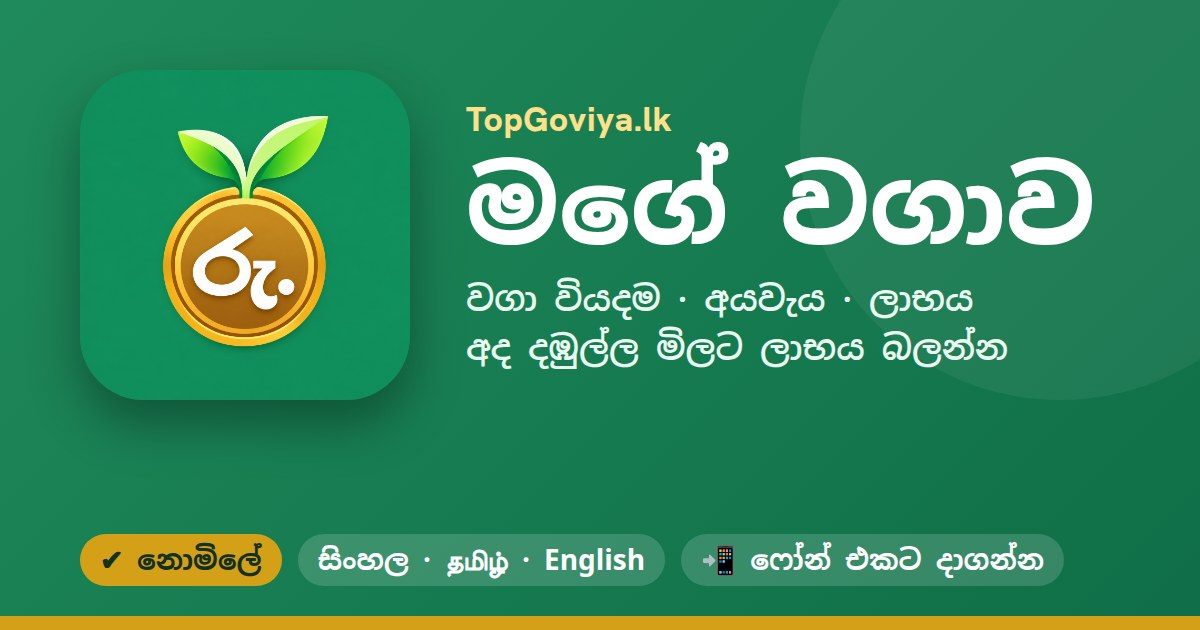
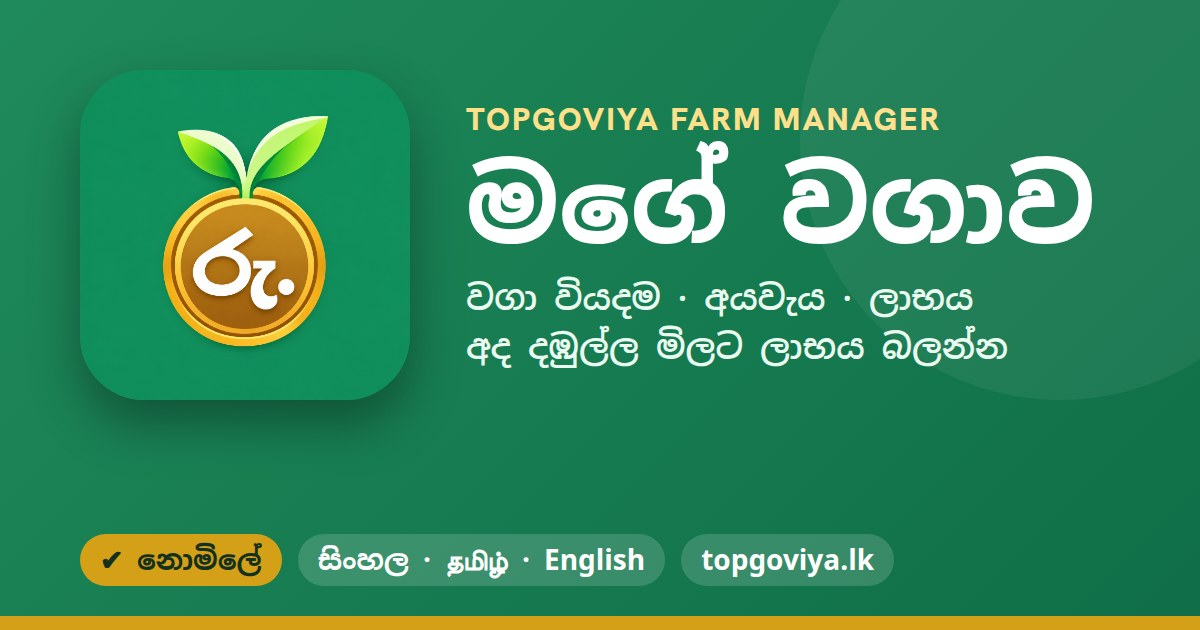
Add files via upload

diff --git a/mage-wagawa.html b/mage-wagawa.html
@@ -4,16 +4,16 @@
 <meta charset="UTF-8">
 <meta name="viewport" content="width=device-width, initial-scale=1">
 <meta name="robots" content="noindex">
-<title>🌾 මගේ වගාව — වගා වියදම හා ලාභය | TopGoviya.lk</title>
+<title>🌾 මගේ වගාව — TopGoviya Farm Manager | වගා වියදම, අයවැය හා ලාභය</title>
 <meta name="description" content="ඔබේ වගාවේ වියදම්, අස්වැන්න හා ලාභය සටහන් කරන්න. අද දඹුල්ල මිලට විකුණුවොත් ලාභය බලන්න. නොමිලේ.">
 <meta property="og:type" content="website">
 <meta property="og:site_name" content="TopGoviya.lk">
-<meta property="og:title" content="🌾 මගේ වගාව — වගා වියදම, අයවැය හා ලාභය | TopGoviya.lk">
+<meta property="og:title" content="🌾 මගේ වගාව — TopGoviya Farm Manager">
 <meta property="og:description" content="වගාවේ වියදම්, අස්වැන්න හා ලාභය සටහන් කරන්න. අද දඹුල්ල මිලට ලාභය බලන්න. නොමිලේ · සිංහල · தமிழ் · English">
 <meta property="og:url" content="https://topgoviya.lk/mage-wagawa.html">
 <meta property="og:image" content="https://topgoviya.lk/mw-og.jpg">
 <meta property="og:image:width" content="1200"><meta property="og:image:height" content="630">
-<meta property="og:image:alt" content="මගේ වගාව — TopGoviya.lk">
+<meta property="og:image:alt" content="මගේ වගාව — TopGoviya Farm Manager">
 <meta name="twitter:card" content="summary_large_image"><meta name="twitter:image" content="https://topgoviya.lk/mw-og.jpg">
 <link rel="icon" href="/mw-icon-192.png"><meta name="theme-color" content="#0e4f4a">
 <link rel="manifest" href="/mage-wagawa.webmanifest">
@@ -64,6 +64,7 @@ table{width:100%;border-collapse:collapse;font-size:14px}th,td{padding:7px 6px;b
 .note{font-size:14px;color:var(--muted)}
 .tabs{display:flex;gap:6px;margin:0 0 10px}.tabs button{flex:1;justify-content:center}
 .hide{display:none!important}
+.brandTag{font:800 12.5px/1.2 "Hanken Grotesk",sans-serif;letter-spacing:.06em;text-transform:uppercase;color:var(--gold);margin:2px 0 0 4px}
 .chips{display:flex;flex-wrap:wrap;gap:6px;margin:8px 0 6px}.chips span{background:#e3efe6;color:var(--petrol);border:1px solid #c5dccb;border-radius:999px;padding:4px 11px;font-size:13.5px;font-weight:700}
 .hdLine{font-size:16px;color:var(--ink);font-weight:600;margin:0}
 #vCrop{padding-bottom:76px}
@@ -124,7 +125,7 @@ details.more summary::-webkit-details-marker{display:none}
 <div class="top noprint"><a href="./" data-t="navHome">🥬 TopGoviya.lk</a><a href="./" data-t="navDam">🧺 දඹුල්ල මිල</a><a href="breakeven.html" data-t="navBe">🧮 Break-even</a></div>
 <main class="w">
 <div class="head">
-  <div><h1 data-t="title">🌾 මගේ වගාව</h1></div>
+  <div><h1 data-t="title">🌾 මගේ වගාව</h1><div class="brandTag">TopGoviya Farm Manager</div></div>
   <div class="lang noprint" role="group" aria-label="Language"><button type="button" data-lang="si">සිං</button><button type="button" data-lang="ta">தமிழ்</button><button type="button" data-lang="en">EN</button></div>
 </div>
 <div class="sub" id="subTxt"></div>
@@ -257,7 +258,7 @@ details.more summary::-webkit-details-marker{display:none}
 
 <script>
 const $=id=>document.getElementById(id);
-const APP_VER="2026-11-07.5";
+const APP_VER="2026-11-07.6";
 const KEY="tg_mage_wagawa_v1",LKEY="tg_mage_wagawa_lang";
 
 /* ================= TEXT (3 languages) ================= */
@@ -687,7 +688,7 @@ function renderList(){
 function renderBackup(){
   let h=backupBanner();
   h+=`<div class="card noprint"><h2>${T("backupH")}</h2><p class="note">${T("backupNote")}</p><div class="row">${navigator.share?`<button class="btn solid" type="button" data-act="share">${T("shareBtn")}</button>`:""}<button class="btn" type="button" data-act="backup">${T("expBtn")}</button>
-    <label class="btn" style="margin:0;cursor:pointer;color:var(--petrol)">${T("impBtn")}<input type="file" id="impIn" accept=".json,application/json" hidden></label></div><p class="note neg" style="margin:10px 0 0">${T("bkWarn")}</p><p class="note" style="margin:10px 0 0">${T("bkHow")}</p><p class="note" style="margin:10px 0 0">${T("impNote")}</p><p class="note" style="margin:10px 0 0">${T("bkSame")}</p>${isIOS()&&!isStandalone()?`<p class="note" style="margin:10px 0 0">${T("bkIOS")}</p>`:""}<p class="note" style="margin:10px 0 0">${T("privNote")}</p></div>`+feedbackCard()+partnerCard()+`<p class="note" style="text-align:center;margin:6px 0 0">🌾 මගේ වගාව · v${APP_VER}</p>`;
+    <label class="btn" style="margin:0;cursor:pointer;color:var(--petrol)">${T("impBtn")}<input type="file" id="impIn" accept=".json,application/json" hidden></label></div><p class="note neg" style="margin:10px 0 0">${T("bkWarn")}</p><p class="note" style="margin:10px 0 0">${T("bkHow")}</p><p class="note" style="margin:10px 0 0">${T("impNote")}</p><p class="note" style="margin:10px 0 0">${T("bkSame")}</p>${isIOS()&&!isStandalone()?`<p class="note" style="margin:10px 0 0">${T("bkIOS")}</p>`:""}<p class="note" style="margin:10px 0 0">${T("privNote")}</p></div>`+feedbackCard()+partnerCard()+`<p class="note" style="text-align:center;margin:6px 0 0">🌾 මගේ වගාව — TopGoviya Farm Manager · v${APP_VER}</p>`;
   $("vBackup").innerHTML=h;
   $("impIn").onchange=importFile;
 }
@@ -1112,7 +1113,7 @@ function renderGuide(){
      <button class="btn solid big noprint" type="button" id="readGuide" style="width:100%;justify-content:center">${T("vReadAll")}</button><div class="row noprint" style="margin-top:10px">${instBtn(true)}</div></div>`
    +G.map((s,i)=>`<div class="card gstep"><span class="gnum">${i+1}</span><div><div class="row" style="justify-content:space-between;align-items:flex-start;flex-wrap:nowrap;gap:8px"><h3>${esc(s[0])}</h3><button class="btn noprint" type="button" data-step="${i}" aria-label="${esc(T("vRead"))}" style="flex:none;padding:6px 10px">🔊</button></div><p>${esc(s[1])}</p></div></div>`).join("")
    +`<div class="row noprint" style="margin:0 0 14px"><button class="btn gold big" type="button" data-act="demo">${T("seeDemo")}</button><button class="btn solid big" type="button" data-act="new">${T("gStart")}</button></div>
-   <p class="note">${T("guideNote")}</p>`+feedbackCard()+weatherCard()+partnerCard()+`<p class="note" style="text-align:center;margin:6px 0 0">🌾 මගේ වගාව · v${APP_VER}</p>`;
+   <p class="note">${T("guideNote")}</p>`+feedbackCard()+weatherCard()+partnerCard()+`<p class="note" style="text-align:center;margin:6px 0 0">🌾 මගේ වගාව — TopGoviya Farm Manager · v${APP_VER}</p>`;
   const say=s=>s.replace(/[\u2600-\u27BF\u{1F300}-\u{1FAFF}\uFE0F]/gu,"").replace(/\\?"/g,"");
   $("readGuide").onclick=function(){speak(G.map((s,i)=>`${i+1}. ${s[0]}. ${s[1]}`).map(say).join(" "),this);};
   $("vGuide").querySelectorAll("[data-step]").forEach(b=>b.onclick=function(){const s=G[+b.dataset.step];speak(say(`${+b.dataset.step+1}. ${s[0]}. ${s[1]}`),this);});
